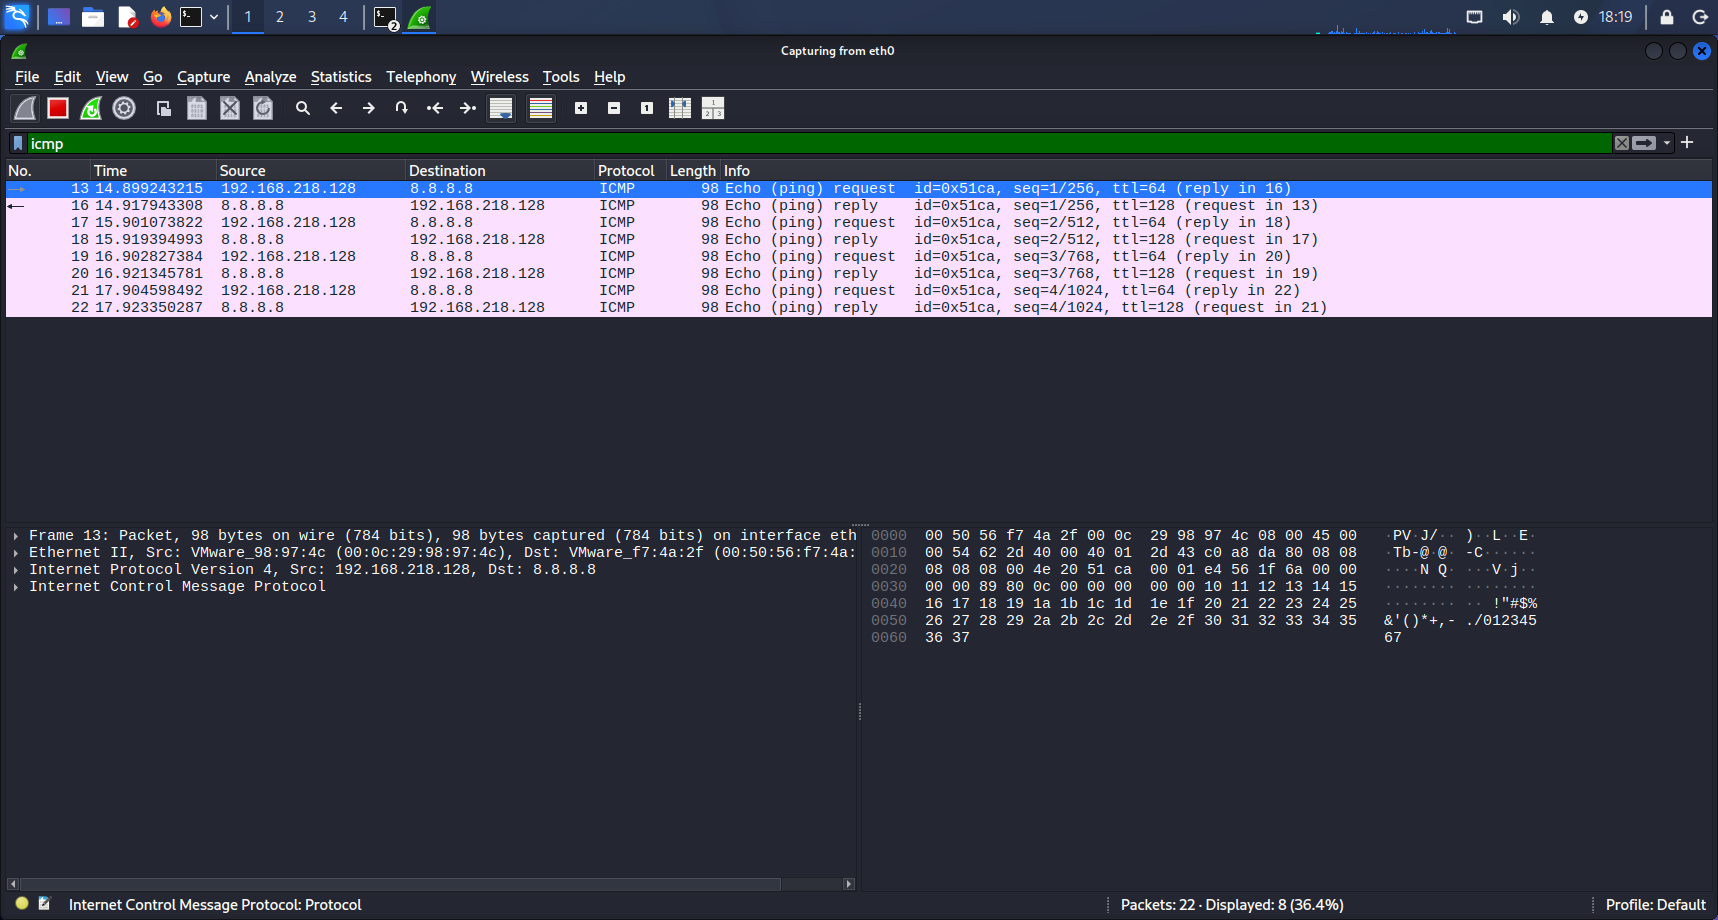
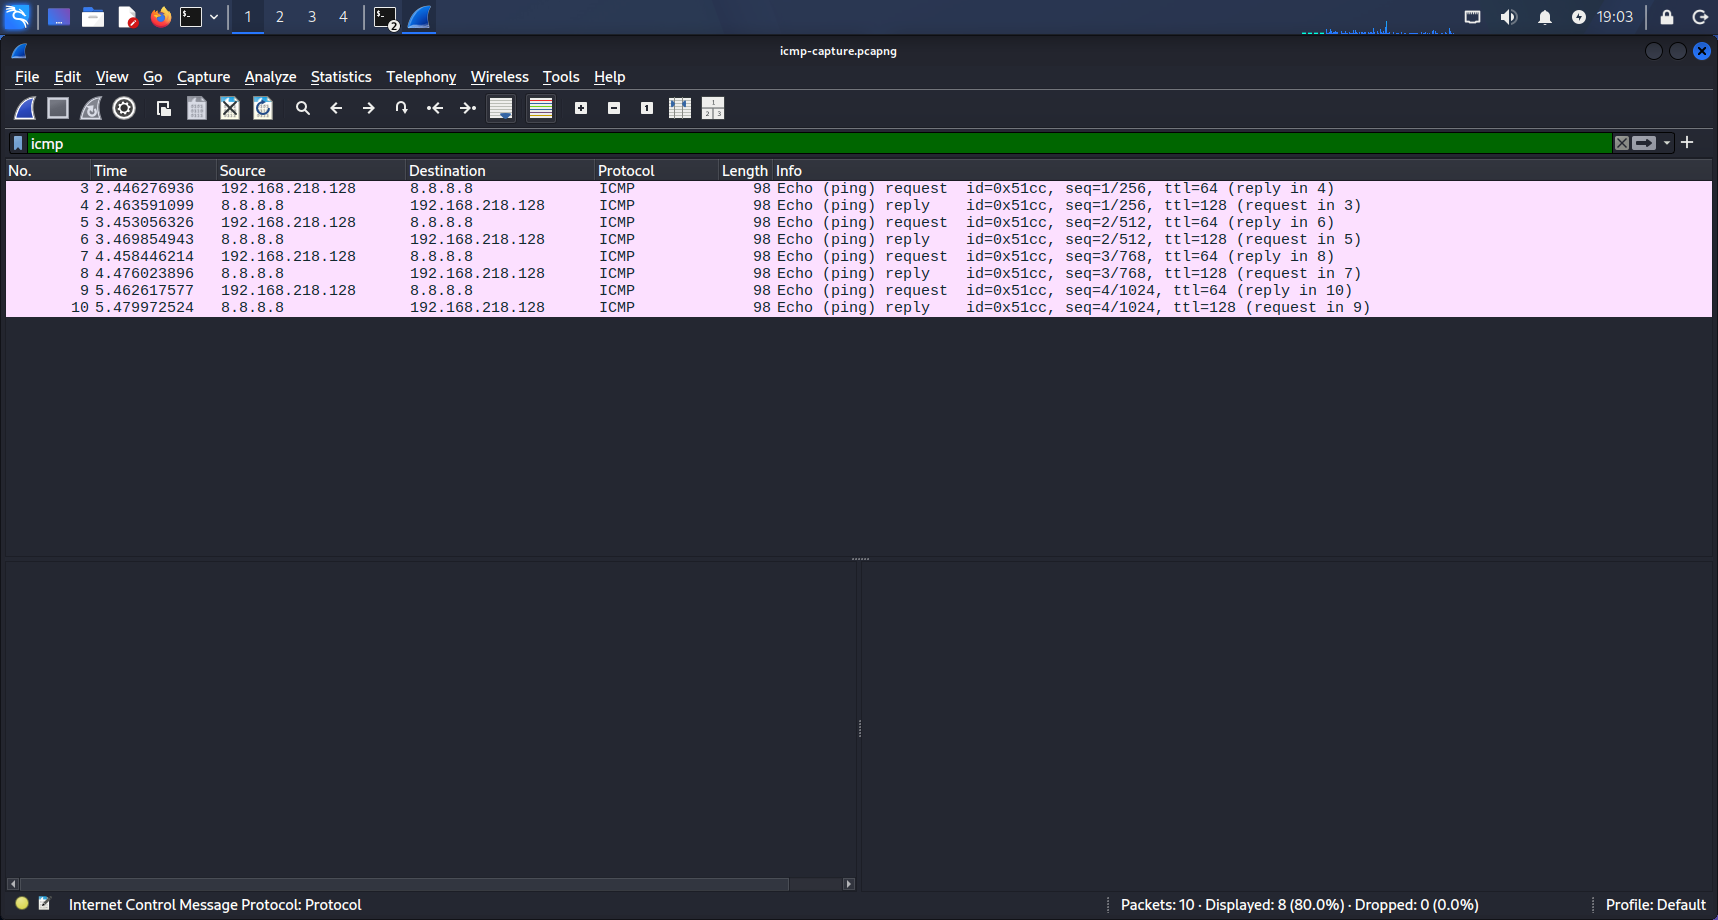
Adiciona documentação e evidências do laboratório Wireshark

diff --git a/notes/arp-analysis.md b/notes/arp-analysis.md
@@ -1,0 +1,26 @@
+
+# ARP Analysis
+
+## Objetivo
+
+Analisar o funcionamento do protocolo ARP (Address Resolution Protocol).
+
+## Filtro Utilizado
+
+arp
+
+## Teste Executado
+
+```bash
+ping -c 1 192.168.218.1
+```
+
+## O que foi observado
+
+* ARP Request
+* ARP Reply
+* Descoberta do endereço MAC do gateway
+
+## Aprendizados
+
+O protocolo ARP é responsável por descobrir o endereço físico (MAC Address) associado a um endereço IP na rede local.

diff --git a/notes/icmp-analysis.md b/notes/icmp-analysis.md
@@ -1,0 +1,26 @@
+
+# ICMP Analysis
+
+## Objetivo
+
+Analisar o funcionamento do protocolo ICMP através do comando ping.
+
+## Filtro Utilizado
+
+icmp
+
+## Teste Executado
+
+```bash
+ping -c 4 8.8.8.8
+```
+
+## O que foi observado
+
+* Echo Request
+* Echo Reply
+* Tempo de resposta (RTT)
+
+## Aprendizados
+
+O ICMP é utilizado para diagnóstico de rede e verificação de conectividade entre hosts.

diff --git a/README.md b/README.md
@@ -54,3 +54,25 @@ Observação do handshake TLS e comunicação criptografada.
 * Análise de HTTP
 * Análise de VLANs
 * Capturas avançadas
+
+## Evidências
+
+### DNS
+
+![DNS Analysis](screenshots/dns-analysis.png)
+
+### ARP
+
+![ARP Analysis](screenshots/arp-analysis.png)
+
+### ICMP
+
+![ICMP Analysis](screenshots/icmp-analysis.png)
+
+### TCP Handshake
+
+![TCP Handshake](screenshots/tcp-handshake.png)
+
+### HTTPS/TLS
+
+![HTTPS Analysis](screenshots/https-analysis.png)